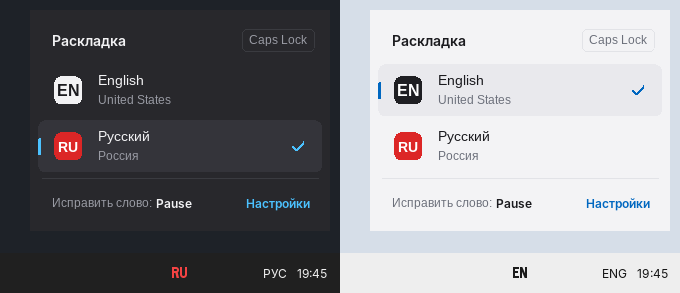
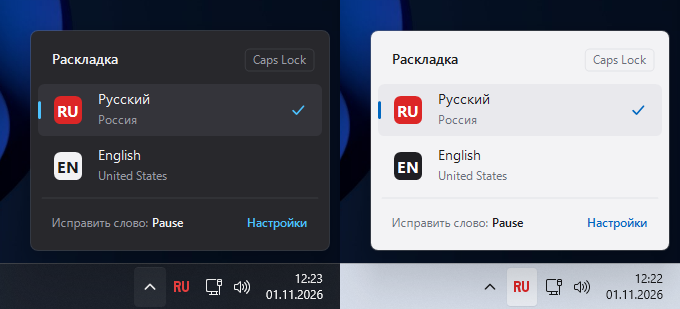
1.5.7: Double Shift, sounds, screenshots

diff --git a/src/keyswitch.cpp b/src/keyswitch.cpp
@@ -171,7 +171,7 @@ enum StrId {
     S_LBL_LANG, S_LANG_AUTO,
     S_LBL_ICON, S_ICON_SQUARE, S_ICON_LETTERS, S_ICON_STAR, S_ICON_HIDDEN, S_LBL_SET, S_HIDDEN_INFO,
     S_SUBTITLE, S_SEC_CURRENT, S_SEC_HOTKEYS, S_SEC_GENERAL, S_SEC_EXCL, S_ROW_WORD, S_ROW_SEL, S_ROW_CASE, S_ROW_SET,
-    S_ROW_SOUND, S_ROW_SHOWICON, S_ROW_ICONSTYLE, S_SEG_LETTERS, S_LBL_LANG2, S_ADD, S_FOOT, S_PRESS_SHORT, S_HIDDEN_HINT, S_ABOUT_CONTACT, S_ABOUT_VERSION, S_ABOUT_CODE, S_ABOUT_CHAT, S_ROW_DCAPS, S_DCAPS_HINT, S_SEC_DCAPS, S_DCAPS_EMPTY,
+    S_ROW_SOUND, S_ROW_SHOWICON, S_ROW_ICONSTYLE, S_SEG_LETTERS, S_LBL_LANG2, S_ADD, S_FOOT, S_PRESS_SHORT, S_HIDDEN_HINT, S_ABOUT_CONTACT, S_ABOUT_VERSION, S_ABOUT_CODE, S_ABOUT_CHAT, S_ROW_DCAPS, S_DCAPS_HINT, S_SEC_DCAPS, S_DCAPS_EMPTY, S_ROW_DSHIFT, S_DSHIFT_HINT,
     S_FLY_TITLE, S_FLY_FIX, S_FLY_SETTINGS, S_FLY_OFF,
     S_COUNT
 };
@@ -260,6 +260,8 @@ static const LocStr kStrings[S_COUNT] = {
     /* S_SEC_DCAPS       */ { L"Не исправлять ДВе заглавные в словах", L"Keep TWo capitals in these words" },
     /* S_DCAPS_EMPTY     */ { L"Пока пусто. Слово попадёт сюда, если отменить исправление клавишей Backspace.",
                               L"Empty for now. A word is added here when you undo its fix with Backspace." },
+    /* S_ROW_DSHIFT      */ { L"Двойной Shift тоже исправляет слово", L"Double Shift also fixes the word" },
+    /* S_DSHIFT_HINT     */ { L"Если на клавиатуре нет клавиши Pause", L"If your keyboard has no Pause key" },
     /* S_FLY_TITLE       */ { L"Раскладка", L"Keyboard layout" },
     /* S_FLY_FIX         */ { L"Исправить слово: ", L"Fix word: " },
     /* S_FLY_SETTINGS    */ { L"Настройки", L"Settings" },
@@ -319,7 +321,11 @@ static UINT CurrentMods() {
 // «ДВе заглавные»: «ПРивет» + пробел -> «Привет ». Backspace сразу после исправления отменяет
 // его и запоминает слово как исключение.
 static volatile LONG g_fixDCaps = 1;
-static volatile LONG g_inPassword = 0;   // фокус в поле пароля (обновляет главный поток)
+static volatile LONG g_inPassword = 0;
+static volatile LONG g_doubleShift = 0;   // двойное нажатие Shift тоже исправляет слово
+static DWORD g_shiftDownAt = 0;           // поток хука: когда нажали Shift
+static bool  g_shiftClean = false;        // пока Shift зажат, других клавиш не было
+static DWORD g_lastShiftTap = 0;          // когда закончилось прошлое одиночное нажатие Shift   // фокус в поле пароля (обновляет главный поток)
 static std::vector<std::wstring> g_dcExcept;            // слова-исключения (как набраны), под g_cs
 static const wchar_t* const kDcBuiltin[] = { L"ВКонтакте" };
 struct DcUndo {
@@ -462,9 +468,40 @@ static LRESULT CALLBACK KeyboardProc(int code, WPARAM wp, LPARAM lp) {
     // Любая клавиша закрывает панель раскладок (как у системных всплывающих окон).
     if (down && g_flyVisible) PostMessageW(g_mainWnd, WMU_FLYHIDE, 0, 0);
 
+    const bool isShift = vk == VK_SHIFT || vk == VK_LSHIFT || vk == VK_RSHIFT;
     if (!down) {
         if (vk == g_swallowUp) { g_swallowUp = 0; return 1; }
+        // Двойной Shift: два коротких нажатия подряд, без других клавиш между ними.
+        if (isShift && g_doubleShift && g_shiftClean) {
+            g_shiftClean = false;
+            const DWORD now = k->time;
+            if (now - g_shiftDownAt < 300) {
+                const UINT dbl = GetDoubleClickTime() < 300 ? 300 : (GetDoubleClickTime() > 600 ? 600 : GetDoubleClickTime());
+                if (g_lastShiftTap && now - g_lastShiftTap < dbl) {
+                    g_lastShiftTap = 0;
+                    HWND fg = GetForegroundWindow();
+                    if (!g_paused && !(g_autoFull && g_fullscreen) && !g_inPassword && !g_hookExcl.Check(fg))
+                        PostMessageW(g_mainWnd, WMU_WORD, 0, 0);
+                } else {
+                    g_lastShiftTap = now;
+                }
+            } else {
+                g_lastShiftTap = 0;
+            }
+        }
         return CallNextHookEx(nullptr, code, wp, lp);
+    }
+    if (isShift) {
+        if (!g_shiftClean || k->time - g_shiftDownAt > 1000) {   // первое нажатие, не автоповтор
+            if (!(GetAsyncKeyState(VK_CONTROL) & 0x8000) && !(GetAsyncKeyState(VK_MENU) & 0x8000) &&
+                !(GetAsyncKeyState(VK_LWIN) & 0x8000) && !(GetAsyncKeyState(VK_RWIN) & 0x8000)) {
+                g_shiftClean = true;
+                g_shiftDownAt = k->time;
+            }
+        }
+    } else {
+        g_shiftClean = false;   // любая другая клавиша: это не одиночный Shift
+        g_lastShiftTap = 0;
     }
     if (g_swallowUp && vk == g_swallowUp)
         return 1;   // автоповтор удерживаемой горячей клавиши
@@ -882,7 +919,7 @@ static std::wstring ConvertText(const std::wstring& text, HKL src, HKL dst) {
 
 static std::vector<BYTE> g_wavOther, g_wavEn;
 
-static std::vector<BYTE> MakeSoftWav(double freq) {
+static std::vector<BYTE> MakeSoftWav(double freq, double decay = 0.035, double gain = 0.3, double glide = 0.0) {
     const int    SR = 44100;
     const double pi = 3.14159265358979323846;
     const size_t n0 = static_cast<size_t>(0.15 * SR);
@@ -891,8 +928,10 @@ static std::vector<BYTE> MakeSoftWav(double freq) {
     std::vector<double> src(n, 0.0);
     for (size_t i = 0; i < n0; ++i) {
         const double t = double(i) / SR;
-        const double e = t < 0.006 ? t / 0.006 : std::exp(-(t - 0.006) / 0.035);
-        src[i] = (std::sin(2 * pi * freq * t) + 0.25 * std::sin(4 * pi * freq * t)) * e;
+        const double e = t < 0.006 ? t / 0.006 : std::exp(-(t - 0.006) / decay);
+        // glide: тон плавно опускается (для звука отказа), фаза считается интегралом частоты.
+        const double ph = 2 * pi * (freq * t - glide * freq * t * t / 0.3);
+        src[i] = (std::sin(ph) + 0.25 * std::sin(2 * ph)) * e;
     }
 
     // Небольшая «комната» (реверберация Шрёдера): 4 гребенчатых + 2 всепропускающих фильтра.
@@ -936,10 +975,18 @@ static std::vector<BYTE> MakeSoftWav(double freq) {
     put32(16, 16); put16(20, 1); put16(22, 1); put32(24, SR); put32(28, SR * 2); put16(32, 2); put16(34, 16);
     std::memcpy(&w[36], "data", 4); put32(40, dataBytes);
     for (size_t i = 0; i < n; ++i) {
-        const short v = static_cast<short>(std::lround(s[i] / peak * 0.3 * 32767));
+        const short v = static_cast<short>(std::lround(s[i] / peak * gain * 32767));
         std::memcpy(&w[44 + i * 2], &v, 2);
     }
     return w;
+}
+
+static std::vector<BYTE> g_wavRefuse;
+
+// «Не получилось»: тихий низкий глухой звук вместо резкого системного сигнала.
+static void PlayRefuseSound() {
+    if (!g_sound || g_wavRefuse.empty()) return;
+    PlaySoundW(reinterpret_cast<LPCWSTR>(g_wavRefuse.data()), nullptr, SND_MEMORY | SND_ASYNC | SND_NODEFAULT);
 }
 
 static void PlaySwitchSound(HKL hkl) {
@@ -1141,12 +1188,12 @@ static void ConvertLastWord() {
     HKL src = nullptr, orig = nullptr;
 
     EnterCriticalSection(&g_cs);
-    if (fg != g_bufWnd || g_buf.empty()) { LeaveCriticalSection(&g_cs); return; }
+    if (fg != g_bufWnd || g_buf.empty()) { LeaveCriticalSection(&g_cs); PlayRefuseSound(); return; }   // исправлять нечего
     size_t i = g_buf.size();
     while (i > 0 && g_buf[i - 1].vk == VK_SPACE) --i;     // хвостовые пробелы
     const size_t wordEnd = i;
     while (i > 0 && g_buf[i - 1].vk != VK_SPACE) --i;     // само слово
-    if (i == wordEnd) { LeaveCriticalSection(&g_cs); return; }
+    if (i == wordEnd) { LeaveCriticalSection(&g_cs); PlayRefuseSound(); return; }
     seg.assign(g_buf.begin() + static_cast<std::ptrdiff_t>(i), g_buf.end());
     const bool repeat = g_repeat && g_lastTarget && g_origLayout;
     src = repeat ? g_lastTarget : WindowLayout(fg);
@@ -1155,7 +1202,7 @@ static void ConvertLastWord() {
     LeaveCriticalSection(&g_cs);
 
     HKL dst = NextLayout(src);
-    if (!dst) { MessageBeep(MB_ICONWARNING); return; }
+    if (!dst) { PlayRefuseSound(); return; }
 
     // Всё переводим по клавишам («Ghbdtn?» -> «Привет,», «Ns&» -> «Ты?»), кроме запятой, точки
     // и похожих знаков на краю слова: они не превращаются в «б» и «ю». Подробнее в KeepTypedSymbol.
@@ -1232,11 +1279,11 @@ static void ConvertSelection() {
     ReselectIfRepeat(fg);
     std::vector<ClipItem> saved;
     std::wstring text;
-    if (!CopySelection(saved, text)) return;
+    if (!CopySelection(saved, text)) { PlayRefuseSound(); return; }   // ничего не выделено
 
     HKL src = DetectLayout(text, WindowLayout(fg));
     HKL dst = NextLayout(src);
-    if (!dst) { RestoreClipboard(saved); MessageBeep(MB_ICONWARNING); return; }
+    if (!dst) { RestoreClipboard(saved); PlayRefuseSound(); return; }
 
     const std::wstring out = ConvertText(text, src, dst);
     if (out != text) PasteText(out, saved);
@@ -1285,7 +1332,7 @@ static void ChangeSelectionCase() {
     ReselectIfRepeat(fg);
     std::vector<ClipItem> saved;
     std::wstring text;
-    if (!CopySelection(saved, text)) return;
+    if (!CopySelection(saved, text)) { PlayRefuseSound(); return; }   // ничего не выделено
     const std::wstring out = NextCase(text);
     if (out != text) PasteText(out, saved);
     else             RestoreClipboard(saved);
@@ -1412,6 +1459,7 @@ static void LoadConfig() {
     ApplyUiLanguage();
     g_trayHidden = GetPrivateProfileIntW(L"options", L"tray_hidden", 0, p.c_str()) != 0;
     InterlockedExchange(&g_fixDCaps, GetPrivateProfileIntW(L"options", L"fix_double_caps", 1, p.c_str()) ? 1 : 0);
+    InterlockedExchange(&g_doubleShift, GetPrivateProfileIntW(L"options", L"double_shift", 0, p.c_str()) ? 1 : 0);
     {
         wchar_t dc[4096] = {};
         GetPrivateProfileStringW(L"options", L"double_caps_exceptions", L"", dc, ARRAYSIZE(dc), p.c_str());
@@ -1470,6 +1518,7 @@ static void SaveConfig() {
     WritePrivateProfileStringW(L"options", L"tray_icon", nullptr, p.c_str());   // вид значка больше не выбирается
     put(L"options", L"tray_hidden", g_trayHidden ? 1 : 0);
     put(L"options", L"fix_double_caps", g_fixDCaps ? 1 : 0);
+    put(L"options", L"double_shift", g_doubleShift ? 1 : 0);
     {
         std::wstring dc;
         EnterCriticalSection(&g_cs);
@@ -1985,11 +2034,15 @@ static void OnTimer() {
     InterlockedExchange(&g_fullscreen, IsFullscreenWindow(fg) ? 1 : 0);
     const bool off = g_paused || (g_autoFull && g_fullscreen) || g_timerExcl.Check(fg);
 
-    // Раскладка сменилась в том же окне (любым способом) — играем звук.
-    if (fg == g_seenWnd && hkl != g_seenHkl && g_seenHkl && !off)
-        PlaySwitchSound(hkl);
-    g_seenWnd = fg;
-    g_seenHkl = hkl;
+    // Звук при смене раскладки: и когда её переключили (любым способом), и когда перешли в окно
+    // с другой раскладкой. Панель задач, переключатель окон и наши всплывающие окна пропускаем,
+    // чтобы сравнивать раскладки настоящих окон.
+    if (!IsShellOrOwnWindow(fg) || fg == g_settingsWnd) {
+        if (hkl != g_seenHkl && g_seenHkl && !off)
+            PlaySwitchSound(hkl);
+        g_seenWnd = fg;
+        g_seenHkl = hkl;
+    }
 
     static HWND lastExtWnd = nullptr;   // имя процесса узнаём только при смене окна
     if (!IsShellOrOwnWindow(fg)) g_lastExtHwnd = fg;
@@ -2042,13 +2095,13 @@ static void ApplyTrayVisibility() {
 // ---------------------------------------------------------------------------
 
 enum {
-    ST_W = 460, ST_TITLE = 74, ST_PADX = 18, ST_ROW = 50, ST_ROW2 = 62, ST_H2 = 34, ST_LAY = 58, ST_FOOT = 46,
+    ST_W = 460, ST_TITLE = 70, ST_PADX = 18, ST_ROW = 46, ST_ROW2 = 56, ST_H2 = 30, ST_LAY = 42, ST_FOOT = 44,
 };
 
 enum SetItem {
     IT_NONE = 0, IT_MIN, IT_CLOSE,
     IT_HK0, IT_HK1, IT_HK2, IT_HK3,
-    IT_CAPS, IT_AUTO, IT_SOUND, IT_GAMES, IT_SHOWICON, IT_DCAPS,
+    IT_CAPS, IT_AUTO, IT_SOUND, IT_GAMES, IT_SHOWICON, IT_DCAPS, IT_DSHIFT,
     IT_LANG, IT_ADD, IT_GITHUB,
     IT_CHIP = 100,   // крестик у программы-исключения: IT_CHIP + номер
     IT_LAYOUT = 200, // карточка раскладки: IT_LAYOUT + номер
@@ -2372,7 +2425,7 @@ static void SettingsPaint(Gdiplus::Graphics& g, float W, float H) {
     Font* fRow   = SetFont(14);
     Font* fSmall = SetFont(12);
     Font* fPill  = SetFont(12.5f, true);
-    Font* fCode  = SetFont(19, false, true);
+    Font* fCode  = SetFont(17, false, true);
     Font* fLay   = SetFont(13.5f);
     Font* fFoot  = SetFont(12);
     Font* fMini  = SetFont(7.5f, false, true);
@@ -2469,7 +2522,7 @@ static void SettingsPaint(Gdiplus::Graphics& g, float W, float H) {
         EnterCriticalSection(&g_cs);
         for (int i = 0; i < 4; ++i) hk[i] = *HotkeySlot(i);
         LeaveCriticalSection(&g_cs);
-        const float h = ST_ROW * 4 + ST_ROW2;
+        const float h = ST_ROW * 4 + ST_ROW2 * 2;
         card(y, h);
         const wchar_t* labels[4] = { T(S_ROW_WORD), T(S_ROW_SEL), T(S_ROW_CASE), T(S_ROW_SET) };
         for (int i = 0; i < 4; ++i) {
@@ -2489,10 +2542,16 @@ static void SettingsPaint(Gdiplus::Graphics& g, float W, float H) {
         }
         const float yy = y + 4 * ST_ROW;
         sep(yy);
-        hoverBg(yy, ST_ROW2, IT_CAPS, false, true);
+        hoverBg(yy, ST_ROW2, IT_CAPS, false, false);
         rowLabel(yy, ST_ROW2, ICO_CAPS, T(S_CHK_CAPS), T(S_CAPS_HINT), CW - 120);
         DrawToggle(g, c, L + CW - 56, yy + (ST_ROW2 - 20) / 2, g_capsSwitch != 0);
         hit(L, yy, CW, ST_ROW2, IT_CAPS);
+        const float y2 = yy + ST_ROW2;
+        sep(y2);
+        hoverBg(y2, ST_ROW2, IT_DSHIFT, false, true);
+        rowLabel(y2, ST_ROW2, ICO_CAPS, T(S_ROW_DSHIFT), T(S_DSHIFT_HINT), CW - 120);
+        DrawToggle(g, c, L + CW - 56, y2 + (ST_ROW2 - 20) / 2, g_doubleShift != 0);
+        hit(L, y2, CW, ST_ROW2, IT_DSHIFT);
         y += h;
     }
 
@@ -2605,14 +2664,14 @@ static void SettingsPaint(Gdiplus::Graphics& g, float W, float H) {
         y += h;
     }
 
-    // Не исправлять ДВе заглавные
-    y += 6;
-    h2(T(S_SEC_DCAPS));
-    {
-        std::vector<std::wstring> words;
-        EnterCriticalSection(&g_cs);
-        words = g_dcExcept;
-        LeaveCriticalSection(&g_cs);
+    // Не исправлять ДВе заглавные (раздел появляется, когда есть хотя бы одно слово)
+    std::vector<std::wstring> words;
+    EnterCriticalSection(&g_cs);
+    words = g_dcExcept;
+    LeaveCriticalSection(&g_cs);
+    if (!words.empty()) {
+        y += 6;
+        h2(T(S_SEC_DCAPS));
         const float chipH = 30, gap = 8, padX = 14, padY = 12;
         if (words.empty()) {
             const float h = 48;
@@ -2841,6 +2900,7 @@ static void SettingsClick(HWND wnd, int id) {
     case IT_SOUND: InterlockedExchange(&g_sound, g_sound ? 0 : 1); SaveConfig(); break;
     case IT_GAMES: InterlockedExchange(&g_autoFull, g_autoFull ? 0 : 1); SaveConfig(); break;
     case IT_DCAPS: InterlockedExchange(&g_fixDCaps, g_fixDCaps ? 0 : 1); SaveConfig(); break;
+    case IT_DSHIFT: InterlockedExchange(&g_doubleShift, g_doubleShift ? 0 : 1); SaveConfig(); break;
     case IT_AUTO:  SetAutostart(!IsAutostart()); break;
     case IT_SHOWICON:
         g_trayHidden = !g_trayHidden;
@@ -4084,6 +4144,7 @@ int WINAPI wWinMain(HINSTANCE hi, HINSTANCE, LPWSTR, int) {
     g_uiFont = CreateFontIndirectW(&ncm.lfMessageFont);
 
     g_wavOther = MakeSoftWav(330.0);
+    g_wavRefuse = MakeSoftWav(220.0, 0.05, 0.25, 0.35);
     g_wavEn = MakeSoftWav(440.0);
     g_darkTaskbar = !IsLightTaskbar();
 

diff --git a/src/version.h b/src/version.h
@@ -2,6 +2,6 @@
 #pragma once
 #define KS_VER_MAJOR 1
 #define KS_VER_MINOR 5
-#define KS_VER_PATCH 6
-#define KS_VERSION_STR "1.5.6"
-#define KS_BUILD_STR   "2026.10.30"
+#define KS_VER_PATCH 7
+#define KS_VERSION_STR "1.5.7"
+#define KS_BUILD_STR   "2026.11.01"

diff --git a/README.md b/README.md
@@ -42,6 +42,8 @@ KeySwitch does nothing until you ask. You can see when you've typed in the wrong
 
 Regular Caps Lock is `Shift+Caps Lock`. Every hotkey can be changed in Settings.
 
+No Pause key on your keyboard? This happens on many laptops, and on a Mac when you work with Windows through Parallels or remote desktop. Turn on *Double Shift also fixes the word* in Settings and press Shift twice instead.
+
 ## What else it does
 
 - **Converts punctuation by key, as you pressed it.** `Ghbdtn?` → `Привет,`, `Rfr ltkf&` → `Как дела?`. A comma or period at the end of a word stays as is: `Ghbdtn, rfr` → `Привет, как`.
@@ -57,7 +59,7 @@ Regular Caps Lock is `Shift+Caps Lock`. Every hotkey can be changed in Settings.
 - **Light and dark theme**, following Windows. Changes in Settings apply instantly.
 
 <p align="center">
-  <img src="docs/settings-en.png" alt="KeySwitch settings window" width="440">
+  <img src="docs/settings-en.png" alt="KeySwitch settings in light and dark theme" width="760">
 </p>
 
 ## Installation
@@ -120,7 +122,7 @@ In the tray, English is shown in black (white on a dark taskbar), any other layo
 
 - In windows running as administrator, KeySwitch works only if it runs as administrator too. That's a Windows security rule.
 - In some windowed games and old programs the fix may not work. Add them to the exceptions.
-- Mac keyboards have no Pause key. Assign other hotkeys in Settings.
+- A Mac keyboard has no Pause key (when you use Windows through Parallels or remote desktop). Turn on Double Shift or assign other hotkeys in Settings.
 
 </details>
 

diff --git a/CHANGELOG.md b/CHANGELOG.md
@@ -1,5 +1,11 @@
 # Changelog
 
+## 1.5.7 (2026-11-01)
+- **Double Shift.** A new option in Settings: press Shift twice quickly to fix the last word, just like Pause. Handy on laptops without a Pause key and on a Mac when you use Windows through Parallels or remote desktop. Off by default. Pause keeps working too.
+- A soft low sound when there is nothing to fix (nothing typed or nothing selected) or only one layout is installed. It replaces the sharp Windows warning beep. Turned off together with the switch sound.
+- The switch sound also plays when you move to a window with a different layout, so you hear that the layout has changed. Moving between windows with the same layout stays silent.
+- Settings are more compact: shorter rows and slimmer layout cards, so the window fits on smaller screens. The list of remembered words is shown only when it is not empty.
+
 ## 1.5.6 (2026-10-31)
 - **Fixes TWo capitals.** Typed `ПРивет` or `HEllo` and pressed Space? KeySwitch turns it into `Привет` or `Hello`. Press Backspace right after the fix to undo it: the word comes back as typed and KeySwitch remembers it (for example `ВКонтакте`). Remembered words are listed in Settings and can be removed there. Short words like `IDs` and `ПК` are never touched. Can be turned off in Settings.
 - **Password fields are left alone.** In a password field KeySwitch keeps nothing in memory and fixes nothing, Pause included. Caps Lock still switches the layout. Works in the fields Windows can recognize as password fields: regular programs and browsers.
